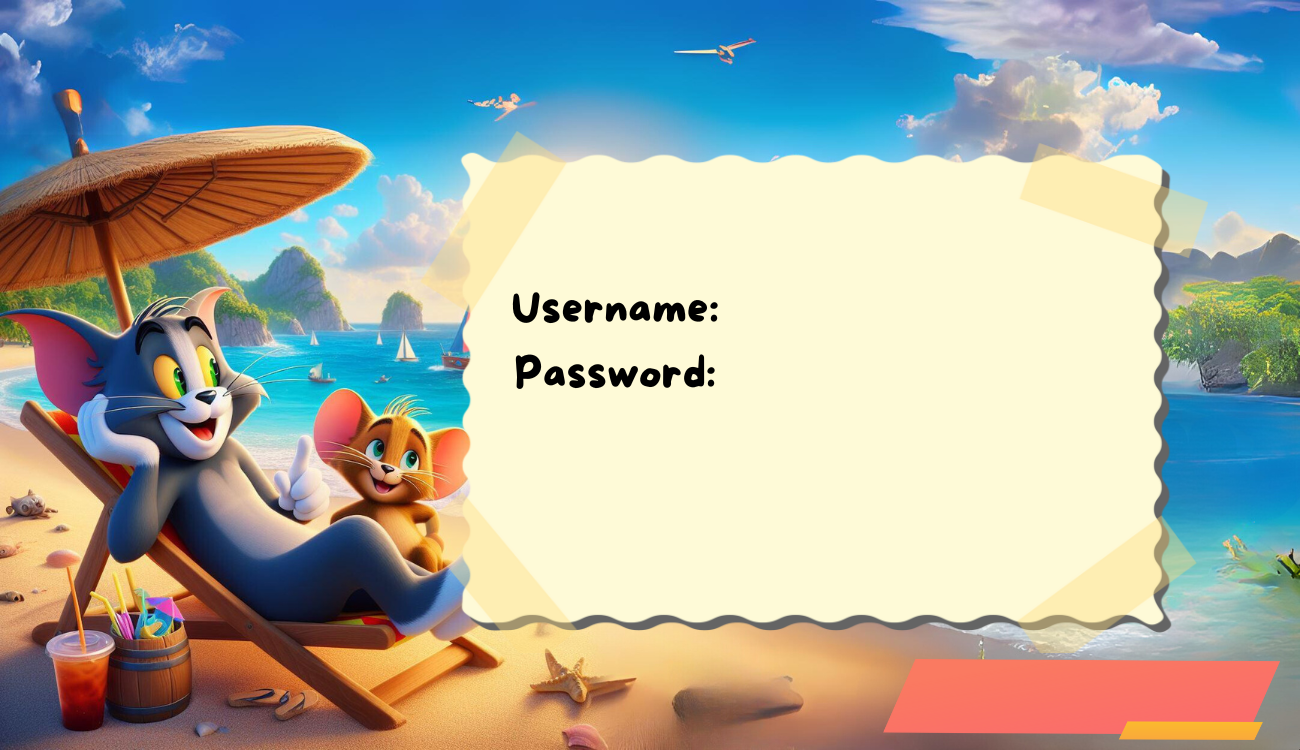
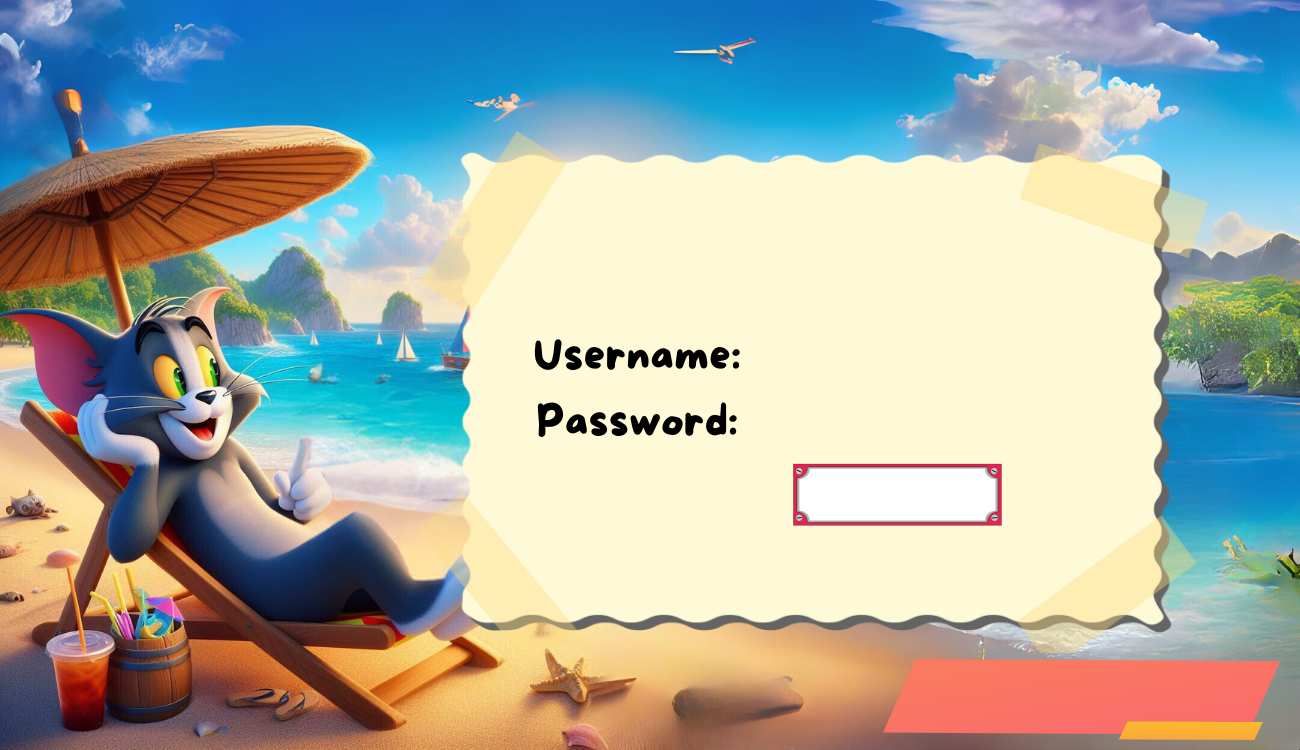
duong

diff --git a/login_startgame.py b/login_startgame.py
@@ -65,10 +65,10 @@ class LoginMenu():
             g.start()
         else:
             print('not register ok')
-            self.regis_noti.set_title('Register AGAIN!')
+            self.regis_noti.set_title('Invalid username or password')
 
     def reset_noti_regis(self, a):
-        self.regis_noti.set_title('Register now')
+        self.regis_noti.set_title('User Registration')
 
     def reset_noti_login(self, a):
         self.login_noti.set_title('User Login')
@@ -136,7 +136,7 @@ class LoginMenu():
 
         self.login_menu_theme = my_theme.copy()
         self.login_menu_theme.background_color = login_img
-        self.login_menu_theme.widget_offset = (0.38, 0.22)  
+        self.login_menu_theme.widget_offset = (0.395, 0.28)  
         self.login_menu_theme.title_close_button = True
         self.login_menu_theme.widget_alignment = pygame_menu.locals.ALIGN_LEFT
         
@@ -144,7 +144,7 @@ class LoginMenu():
         
         self.register_menu_theme = my_theme.copy()
         self.register_menu_theme.background_color = register_img
-        self.register_menu_theme.widget_offset = (0.38, 0.22)  
+        self.register_menu_theme.widget_offset = (0.395, 0.28) 
         self.register_menu_theme.title_close_button = True
         self.register_menu_theme.widget_alignment = pygame_menu.locals.ALIGN_LEFT
 
@@ -160,22 +160,22 @@ class LoginMenu():
 
         self.login_noti = self.login_menu.add.label('User Login')
         usern_login = self.login_menu.add.text_input(
-            title='                     ',
+            title='                       ',
             maxchar=10,
             textinput_id='username',
             input_underline = '__',
             # input_underline_vmargin = 3,
             onchange = self.reset_noti_login)
         passw_login = self.login_menu.add.text_input(
-            title='                     ',
+            title='                       ',
             maxchar=10,
             textinput_id='password',
             input_underline = '__',
             # input_underline_vmargin = 1,
             password=False,
             onchange = self.reset_noti_login)
-        self.login_menu.add.button('Login', self.check_login).translate(295,22)
-        self.login_menu.add.button('Return to main menu', pygame_menu.events.BACK).translate(440,180)
+        self.login_menu.add.button('Login', self.check_login).translate(323,5)
+        self.login_menu.add.button('Return to main menu', pygame_menu.events.BACK).translate(410,135)
 
     def init_register_menu(self):
         self.register_menu = pygame_menu.Menu(
@@ -187,7 +187,7 @@ class LoginMenu():
             width=WINDOW_SIZE[0]  # * 0.8
         )
 
-        self.regis_noti = self.register_menu.add.label('Register now')
+        self.regis_noti = self.register_menu.add.label('User Registration')
         usern_regis = self.register_menu.add.text_input(
             title='                     ',
             maxchar=10,
@@ -201,8 +201,8 @@ class LoginMenu():
             input_underline = '__',
             password=False,
             onchange = self.reset_noti_regis)
-        self.register_menu.add.button('Register', self.check_register).translate(285,22)
-        self.register_menu.add.button('Return to main menu', pygame_menu.events.BACK).translate(440,180)
+        self.register_menu.add.button('Register', self.check_register).translate(305,5)
+        self.register_menu.add.button('Return to main menu', pygame_menu.events.BACK).translate(410,135)
 
     def init_main_menu(self):
          self.main_menu = pygame_menu.Menu(
@@ -429,9 +429,9 @@ class MenuGame():
         #columns= 2,
         #rows = [5, 6],
         )
-        items_levels = [('  Easy (20x20)  ', '20'),
-             ('Medium (40x40)', '40'),
-             ('Hard (100x100) ', '100')]
+        items_levels = [('  Easy (20x20)   ', '20'),
+             (' Medium (40x40) ', '40'),
+             (' Hard (100x100) ', '100')]
 
         def data_fun_sgm() -> None:
             """
@@ -492,8 +492,8 @@ class MenuGame():
         location = self.start_game_menu.add.selector(
             title = 'Location',
             onchange = show_location,
-            items=[('Random', 0),
-                ('Selectable ', 1),],
+            items=[('  Random  ', 0),
+                (' Selectable', 1),],
             selector_id='location_mode',
             default=0,
             style='fancy'
@@ -577,7 +577,7 @@ class MenuGame():
             columns=1,
             height=WINDOW_SIZE[1], #* 0.45,
             theme=self.my_load_game_theme,
-            column_max_width = 500,
+            column_max_width = 700,
             title='Load Game',
             width=WINDOW_SIZE[0], #* 0.9
         )
@@ -588,12 +588,12 @@ class MenuGame():
             float=True,
             height=max(len(games) * 40, 250),
             max_height=250,
-            width=400
+            width=600
         )
         labels = [self.saved_games.add.button(f'Game {i + 1}: {games[i]}', self.start_a_saved_game,) for i in range(len(games))]
         for j in labels:
             f.pack(j)
-        f.translate(130, -45)
+        f.translate(100, -45)
         '''
         for i in range(len(games)):
             self.saved_games.add.button(
@@ -602,7 +602,7 @@ class MenuGame():
             )   ## START A SAVED GAME
         '''
         button = self.saved_games.add.button('Return to main menu', pygame_menu.events.BACK,).background_inflate_to_selection_effect()
-        button.translate(130, 220)
+        button.translate(100, 235)
 
     def init_leaderboard(self):
         easy_list = self.get_data_leaderboard('easy')
@@ -665,7 +665,7 @@ class MenuGame():
         hard.translate(465, 0)
         
         button = self.leaderboard.add.button('Return to main menu', pygame_menu.events.BACK)
-        button.translate(150, 435)
+        button.translate(185, 435)
 
     def init_setting(self):
         self.settings_menu = pygame_menu.Menu(
@@ -678,9 +678,9 @@ class MenuGame():
         )
 
         # Selectable items
-        items = [('Easy', 'EASY'),
+        items = [(' Easy ', ' EASY '),
                  ('Medium', 'MEDIUM'),
-                 ('Hard', 'HARD')]
+                 (' Hard ', ' HARD ')]
 
         self.settings_menu.add.selector(
             'Select difficulty fancy',
